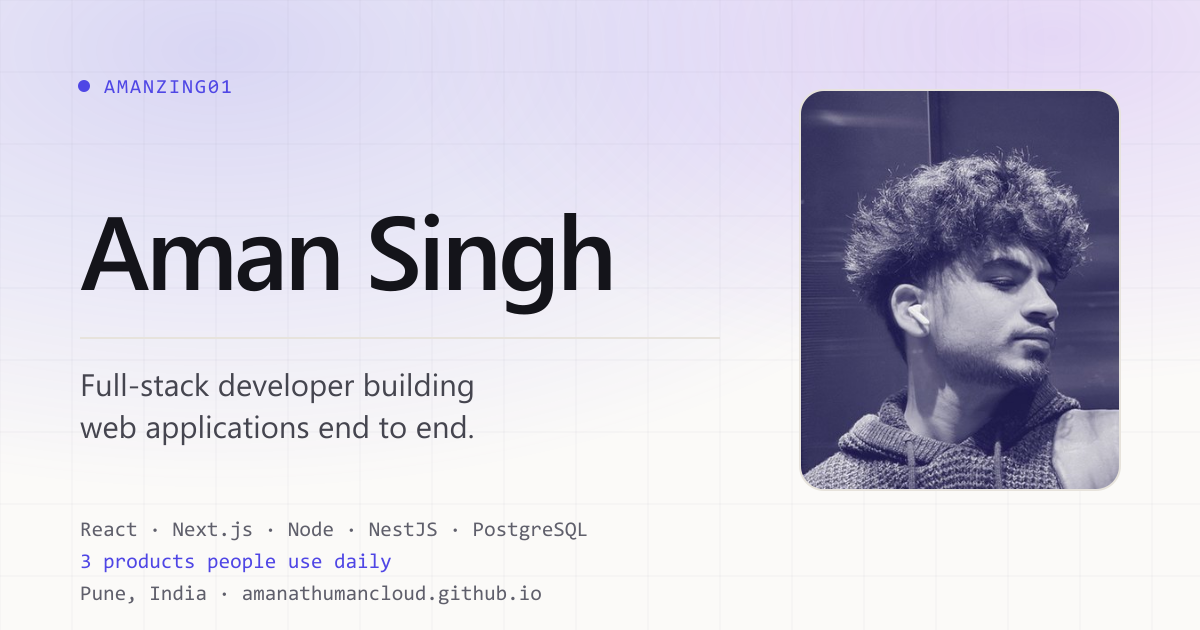
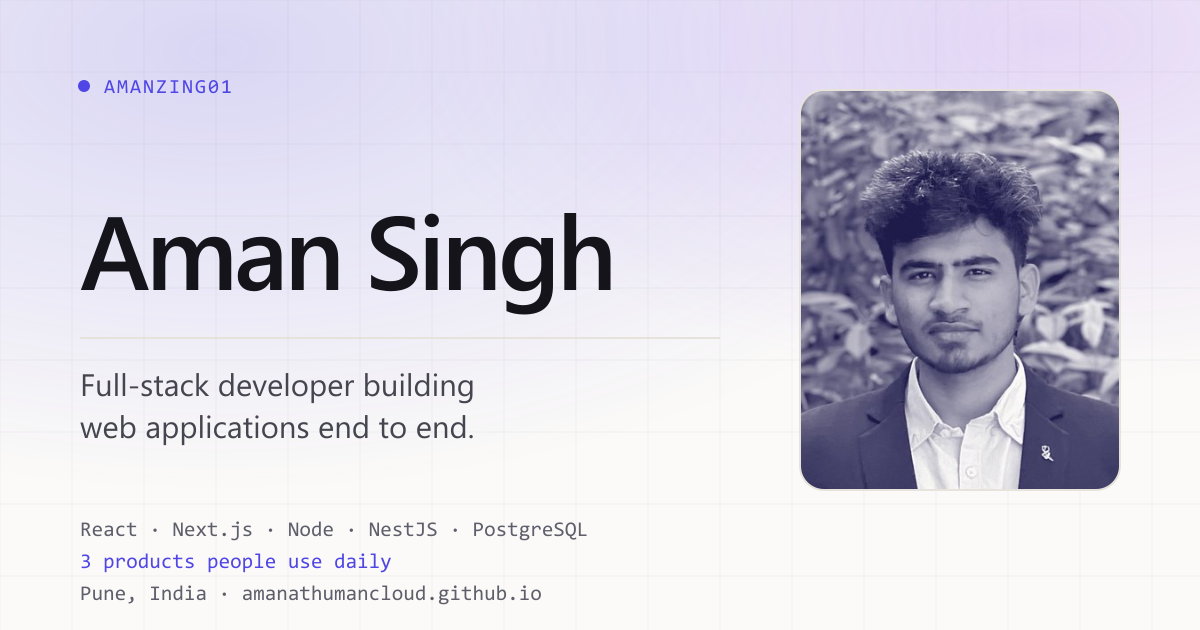
Revert portrait to the original headshot
Repoints the portrait script at Image (2).jfif and restores that photo's
crop: 768x960 at left 0, top 32, output 900x1125. That is the largest 4:5
region the source contains, so it upscales ~1.2x rather than the ~1.7x the
previous crop needed.

Regenerates portrait.jpg, portrait-bw.jpg and og.png.

Changed region(s): [[0.6475, 0.1206, 0.9558, 0.7841]]

diff --git a/.wolf/memory.md b/.wolf/memory.md
@@ -342,3 +342,14 @@ own scroller) and a `max-w-[1400px]` (a maximum, safe). Widest `whitespace-nowra
 Verification: `tsc -b`, `oxlint src`, clean build. Tried the Chrome extension again to
 actually look at it — still not connected, so this pass is reasoned from code and measured
 arithmetic, NOT seen. Mobile visual QA remains outstanding and the user should check it.
+
+## 2026-09-24 — Portrait reverted to the first photo
+
+User asked to go back to the original headshot. Repointed `scripts/portrait.mjs` at
+`Image (2).jfif` and restored that photo's crop: `{left:0, top:32, width:768, height:960}`
+at 900x1125 output. That is the largest 4:5 region the 768x1024 source contains, trimmed
+from the bottom to keep the face centred, so it is only a ~1.2x upscale — noticeably better
+than the 1.7x the selfie crop needed.
+
+Regenerated portrait.jpg, portrait-bw.jpg and og.png (which embeds the portrait), rebuilt
+and deployed. The duotone treatment is unchanged.
